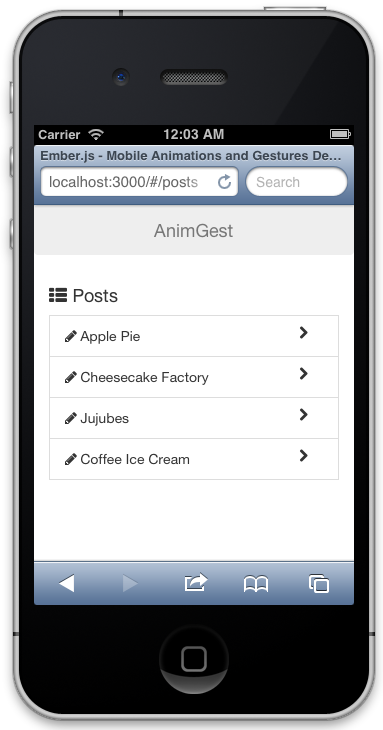
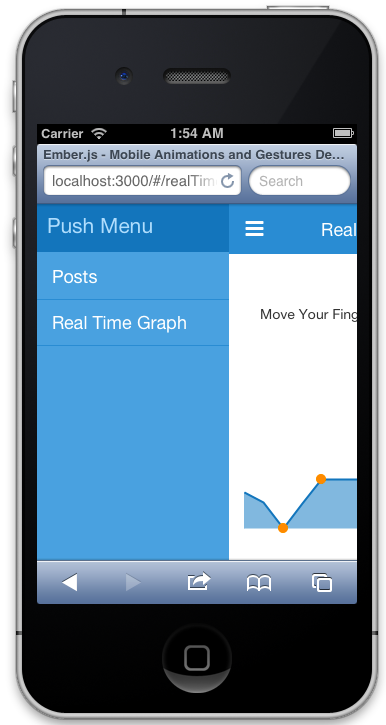
added features for heartbeat graph and push menu posts

diff --git a/app/assets/stylesheets/custom.css b/app/assets/stylesheets/custom.css
@@ -1,0 +1,107 @@
+.menu.visible {
+  left: 0px;
+}
+
+.menu {
+  left: -60%;
+  width:60%;
+  position: fixed;
+  height:100%;
+  z-index:1;
+  background-color: #47a3da;
+  padding: 0px;
+  box-shadow: -3px 3px 3px #ddd;
+}
+
+
+.menu h3 {
+  position:absolute;
+  height:48px;
+  top:0;
+  left:0;
+  width:100%;
+  color: #afdefa;
+  font-size: 1.5em;
+  padding: 10px;
+  margin: 0;
+  font-weight: 300;
+  background: #0d77b6;
+}
+
+.menu a {
+  border-bottom: 1px solid #258ecd;
+  padding: 1em;
+}
+
+.menu a {
+  display: block;
+  color: #fff;
+  font-size: 1.3em;
+  font-weight: 400;
+}
+
+.menu a:hover {
+  background: #258ecd;
+  color: #47a3da;
+}
+
+.menu a:active {
+  background: #afdefa;
+  color: #47a3da;
+}
+
+.push-right {
+  left: 60%;
+}
+
+.menu,
+body {
+  -webkit-transition: all 0.3s ease;
+  -moz-transition: all 0.3s ease;
+  transition: all 0.3s ease;
+}
+
+body {
+  overflow-x: hidden;
+  position: relative;
+  left: 0;
+}
+
+.btn-link {
+  margin-left: -12px;
+  margin-top: 5px;
+}
+
+.navbar {
+  background-color: #258ecd;
+}
+
+.white {
+  color:white;
+}
+
+.white:hover {
+  color:white;
+}
+
+#header {
+  border-radius:0;
+}
+
+.icon-xlarge:before {
+  font-size:1.5em;
+  vertical-align: -14%;
+}
+
+.header-btn {
+  margin: 5px 0px 0px 0px;
+  color:white;
+}
+
+.sparkline {
+  margin-top:150px;
+}
+
+.note {
+  margin-top: 50px;
+}

diff --git a/app/assets/javascripts/views/sparkline_view.js b/app/assets/javascripts/views/sparkline_view.js
@@ -1,0 +1,26 @@
+App.SparklineView = Ember.View.extend({
+    classNames: ['sparkline'],
+    data: [1,2],
+    didInsertElement: function() {
+      this.sample();
+    },
+    sample: function() {
+      var nextSample = Ember.run.later(this, function() {
+        var data=this.get('data');
+        this.$().attr('values', data);
+        this.$().sparkline(data, {type:"line", barWidth:"5", lineWidth:"2", width:"100", lineColor:"#0d77b6", fillColor:"#80B9DB", highlightLineColor:"#afdefa", spotRadius:"5", width:"300", height:"60"});
+        var mouseDistance = this.get('controller.mouseDistance');
+        //data.shift drops the first array object if array length >9
+        if (data.length > 15) {
+          data.shift();
+        }
+        data.push(mouseDistance);
+        this.sample();
+      }, 300);
+      this.set('nextSample', nextSample);
+    },
+    willDestroyElement: function() {
+      var nextSample = this.get('nextSample');
+      Ember.run.cancel(nextSample);
+    }
+});

diff --git a/app/assets/javascripts/views/posts_index_view.js b/app/assets/javascripts/views/posts_index_view.js
@@ -1,3 +1,23 @@
 App.PostsIndexView = Ember.View.extend({
-  templateName: 'posts_index'
+  templateName: 'posts_index',
+
+  swipeOptions: {
+      direction: Em.OneGestureDirection.Left | Em.OneGestureDirection.Right,
+      cancelPeriod: 100,
+      swipeThreshold: 10
+    },
+
+    touchMove: function(event) {
+      event.preventDefault();
+    },
+
+    swipeEnd: function(recognizer, evt) {
+      var direction = recognizer.get('swipeDirection');
+
+      if (direction === Em.OneGestureDirection.Right) {
+        this.get('controller').send('goToPostsFromMenu');
+      } else if (direction === Em.OneGestureDirection.Left) {
+        this.get('controller').send('toggleMenu');
+      }
+    }
 });

diff --git a/app/assets/javascripts/application.js b/app/assets/javascripts/application.js
@@ -13,6 +13,7 @@
 //= require jquery
 //= require jquery_ujs
 //= require handlebars
+//= require vendor/jquery.sparkline.min
 //= require ember
 //= require ember-data
 //= require vendor/ember-animated-outlet
@@ -21,5 +22,18 @@
 //= require_self
 //= require app
 App = Ember.Application.create();
+
+App.normalizeTouchEvent = function(event) {
+    if (!event.touches) {
+        event.touches = event.originalEvent.touches;
+    }
+    if (!event.pageX) {
+        event.pageX = event.originalEvent.pageX;
+    }
+    if (!event.pageY) {
+        event.pageY = event.originalEvent.pageY;
+    }
+    return event;
+};
 
 //= require_tree .

diff --git a/app/assets/javascripts/routes/application_route.js b/app/assets/javascripts/routes/application_route.js
@@ -5,6 +5,18 @@ App.ApplicationRoute = Em.Route.extend({
     },
     backToPosts: function() {
       this.transitionToAnimated('posts.index', {posts: 'slideRight'})
+    },
+    toggleMenu: function() {
+        this.controller.toggleProperty('menuVisible');
+        this.controller.pushBody();
+    },
+    goToPostsFromMenu: function() {
+      this.send('toggleMenu');
+      this.transitionTo('posts.index');
+    },
+    goToRealTimeGraph: function() {
+      this.send('toggleMenu');
+      this.transitionTo('realTimeGraph');
     }
   }
 });

diff --git a/app/assets/javascripts/views/real_time_graph_view.js b/app/assets/javascripts/views/real_time_graph_view.js
@@ -1,0 +1,15 @@
+App.RealTimeGraphView = Ember.View.extend({
+  templateName: 'real_time_graph',
+
+  mouseMove: function(event) {
+    var mouseDistance = 0;
+    var mousex = event.pageX;
+    var mousey = event.pageY;
+    mouseDistance += Math.max( Math.abs(mousex), Math.abs(mousey) );
+    this.set('controller.mouseDistance', mouseDistance);
+  },
+  touchMove: function(event) {
+    event.preventDefault();
+    this.mouseMove(App.normalizeTouchEvent(event));
+  }
+});

diff --git a/app/assets/javascripts/controllers/application_controller.js b/app/assets/javascripts/controllers/application_controller.js
@@ -1,3 +1,9 @@
 App.ApplicationController = Em.Controller.extend({
-  // needs: [],
+  menuVisible: false,
+   pushBody: function() {
+    if (this.get('menuVisible')){
+      return $('.ember-application').addClass('push-right');
+    }
+    $('body').removeClass('push-right');
+   }
 });

diff --git a/app/assets/javascripts/router.js b/app/assets/javascripts/router.js
@@ -2,4 +2,7 @@ App.Router.map(function() {
   this.resource('posts', function() {
     this.resource('post', { path: ':post_id' });
    });
+
+  this.route('realTimeGraph');
+
 });

diff --git a/app/assets/stylesheets/application.css b/app/assets/stylesheets/application.css
@@ -12,4 +12,5 @@
 *= require bootstrap
 *= require font-awesome
 *= require ember-animated-outlet
+*= require custom
  */

diff --git a/app/assets/javascripts/controllers/real_time_graph_controller.js b/app/assets/javascripts/controllers/real_time_graph_controller.js
@@ -1,0 +1,3 @@
+App.Controller = Em.ArrayController.extend({
+  mouseDistance: 0,
+});
